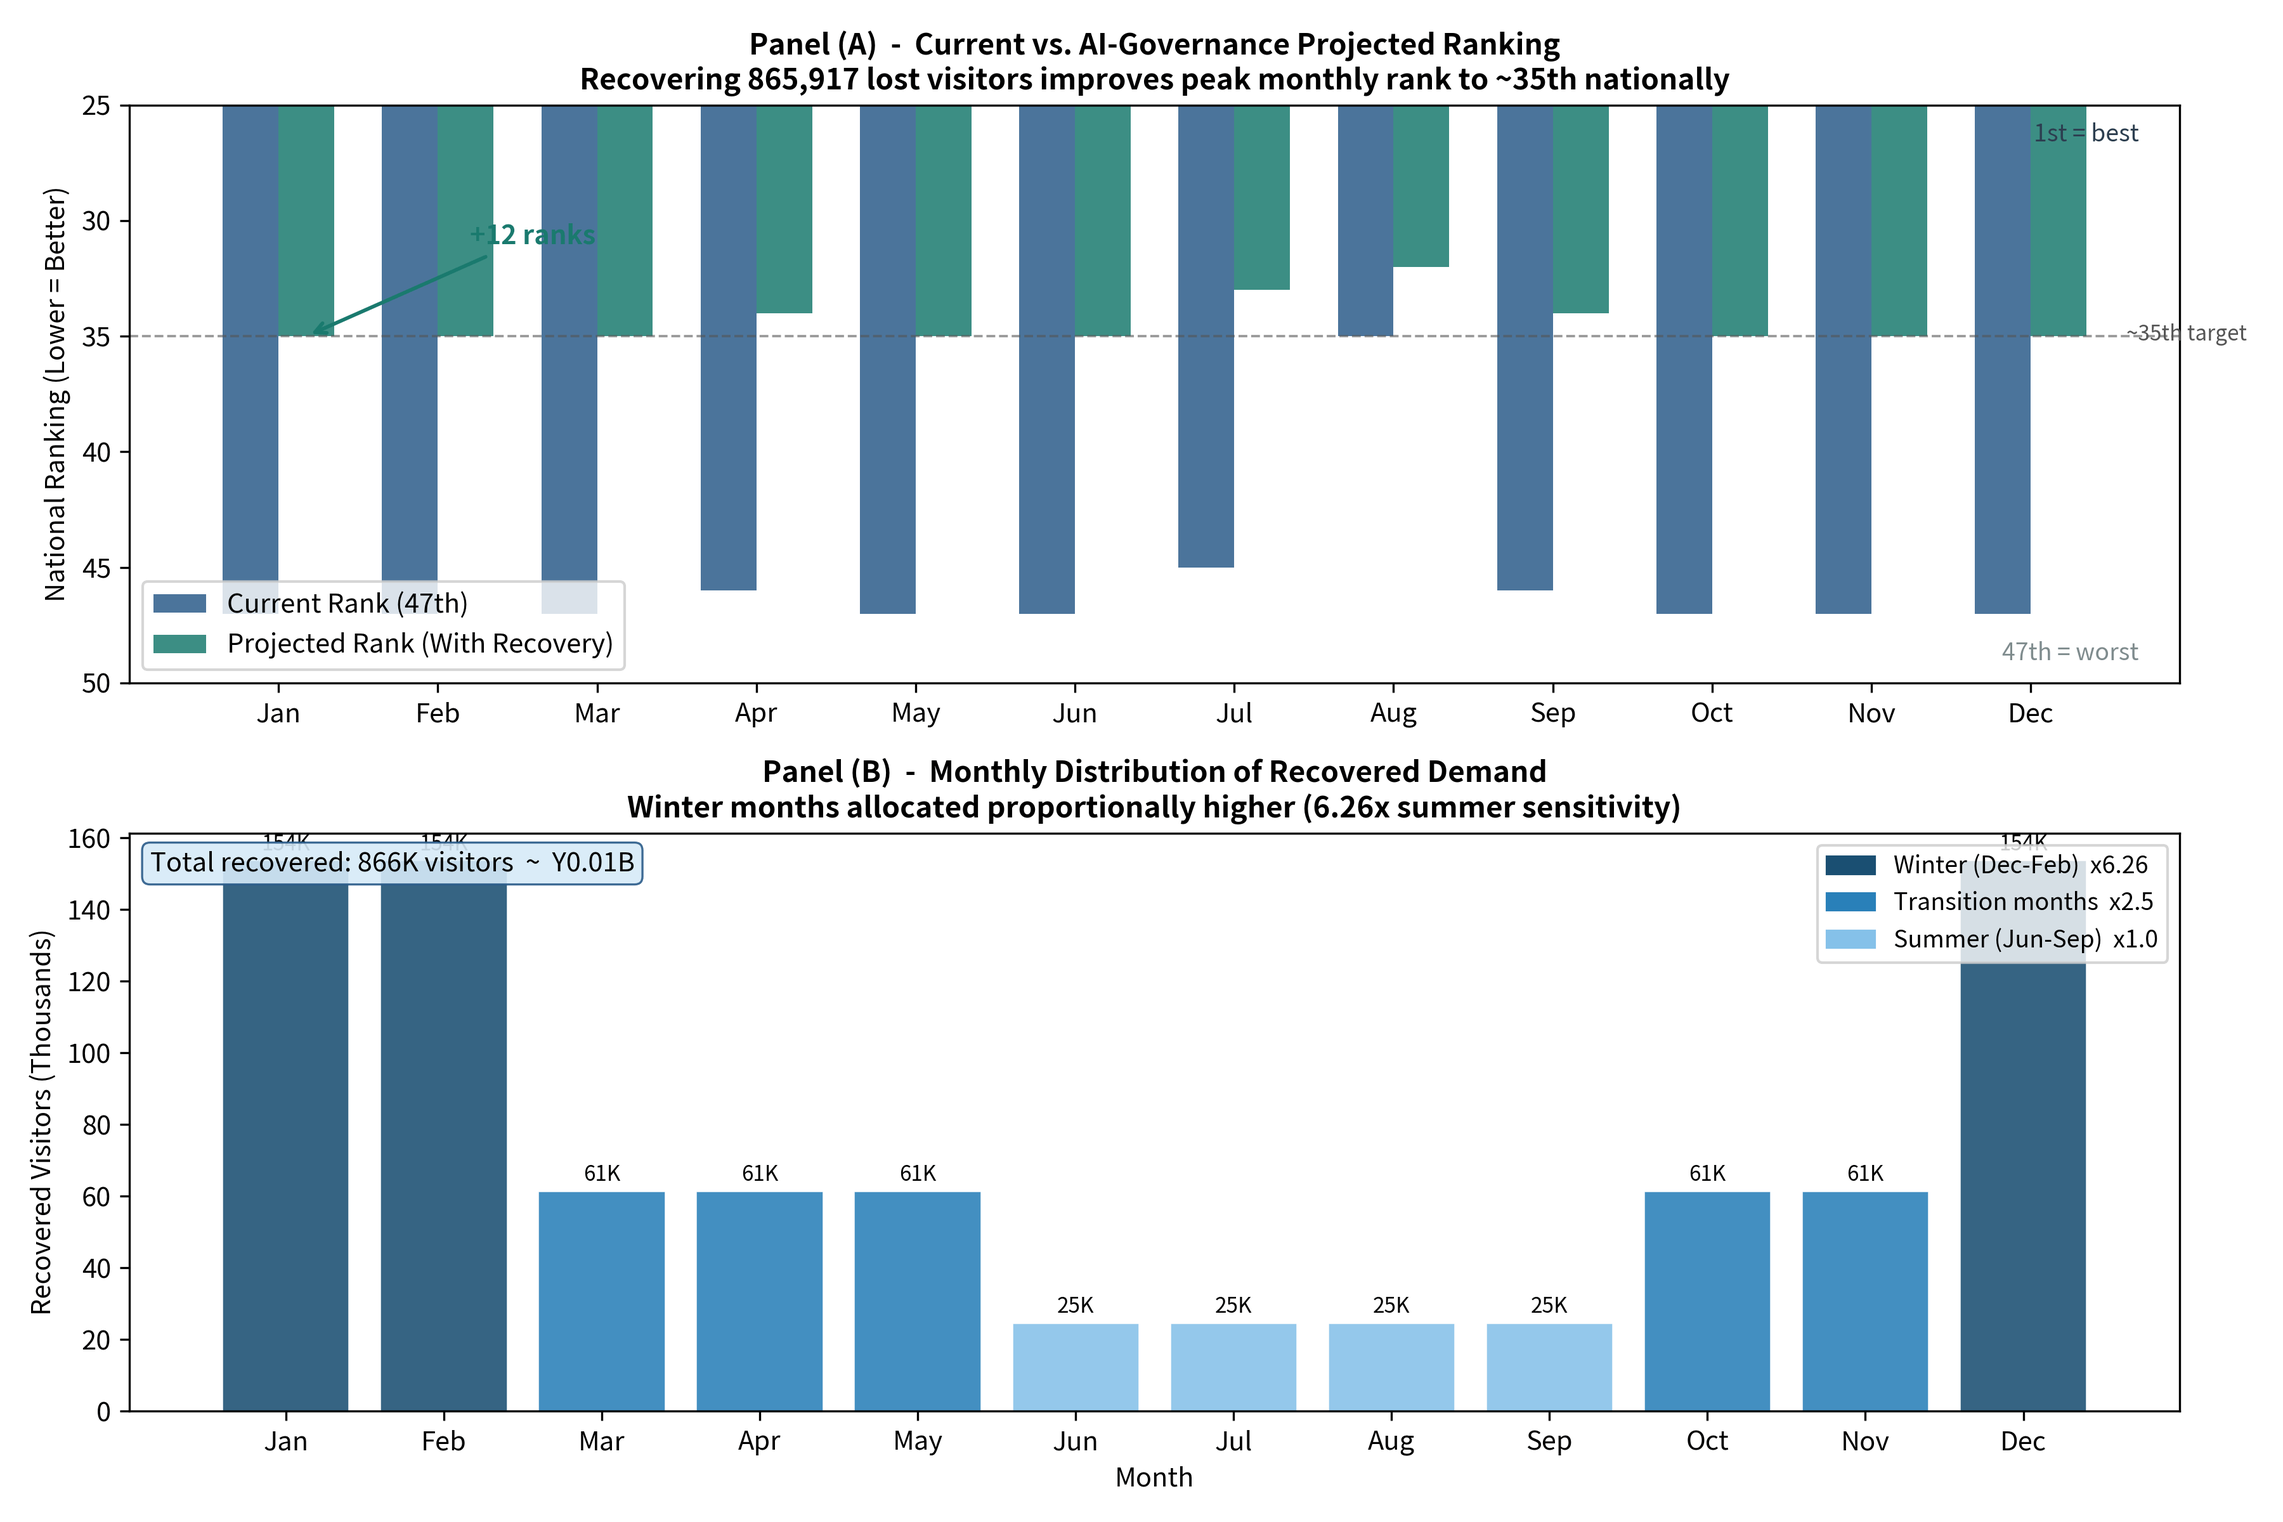
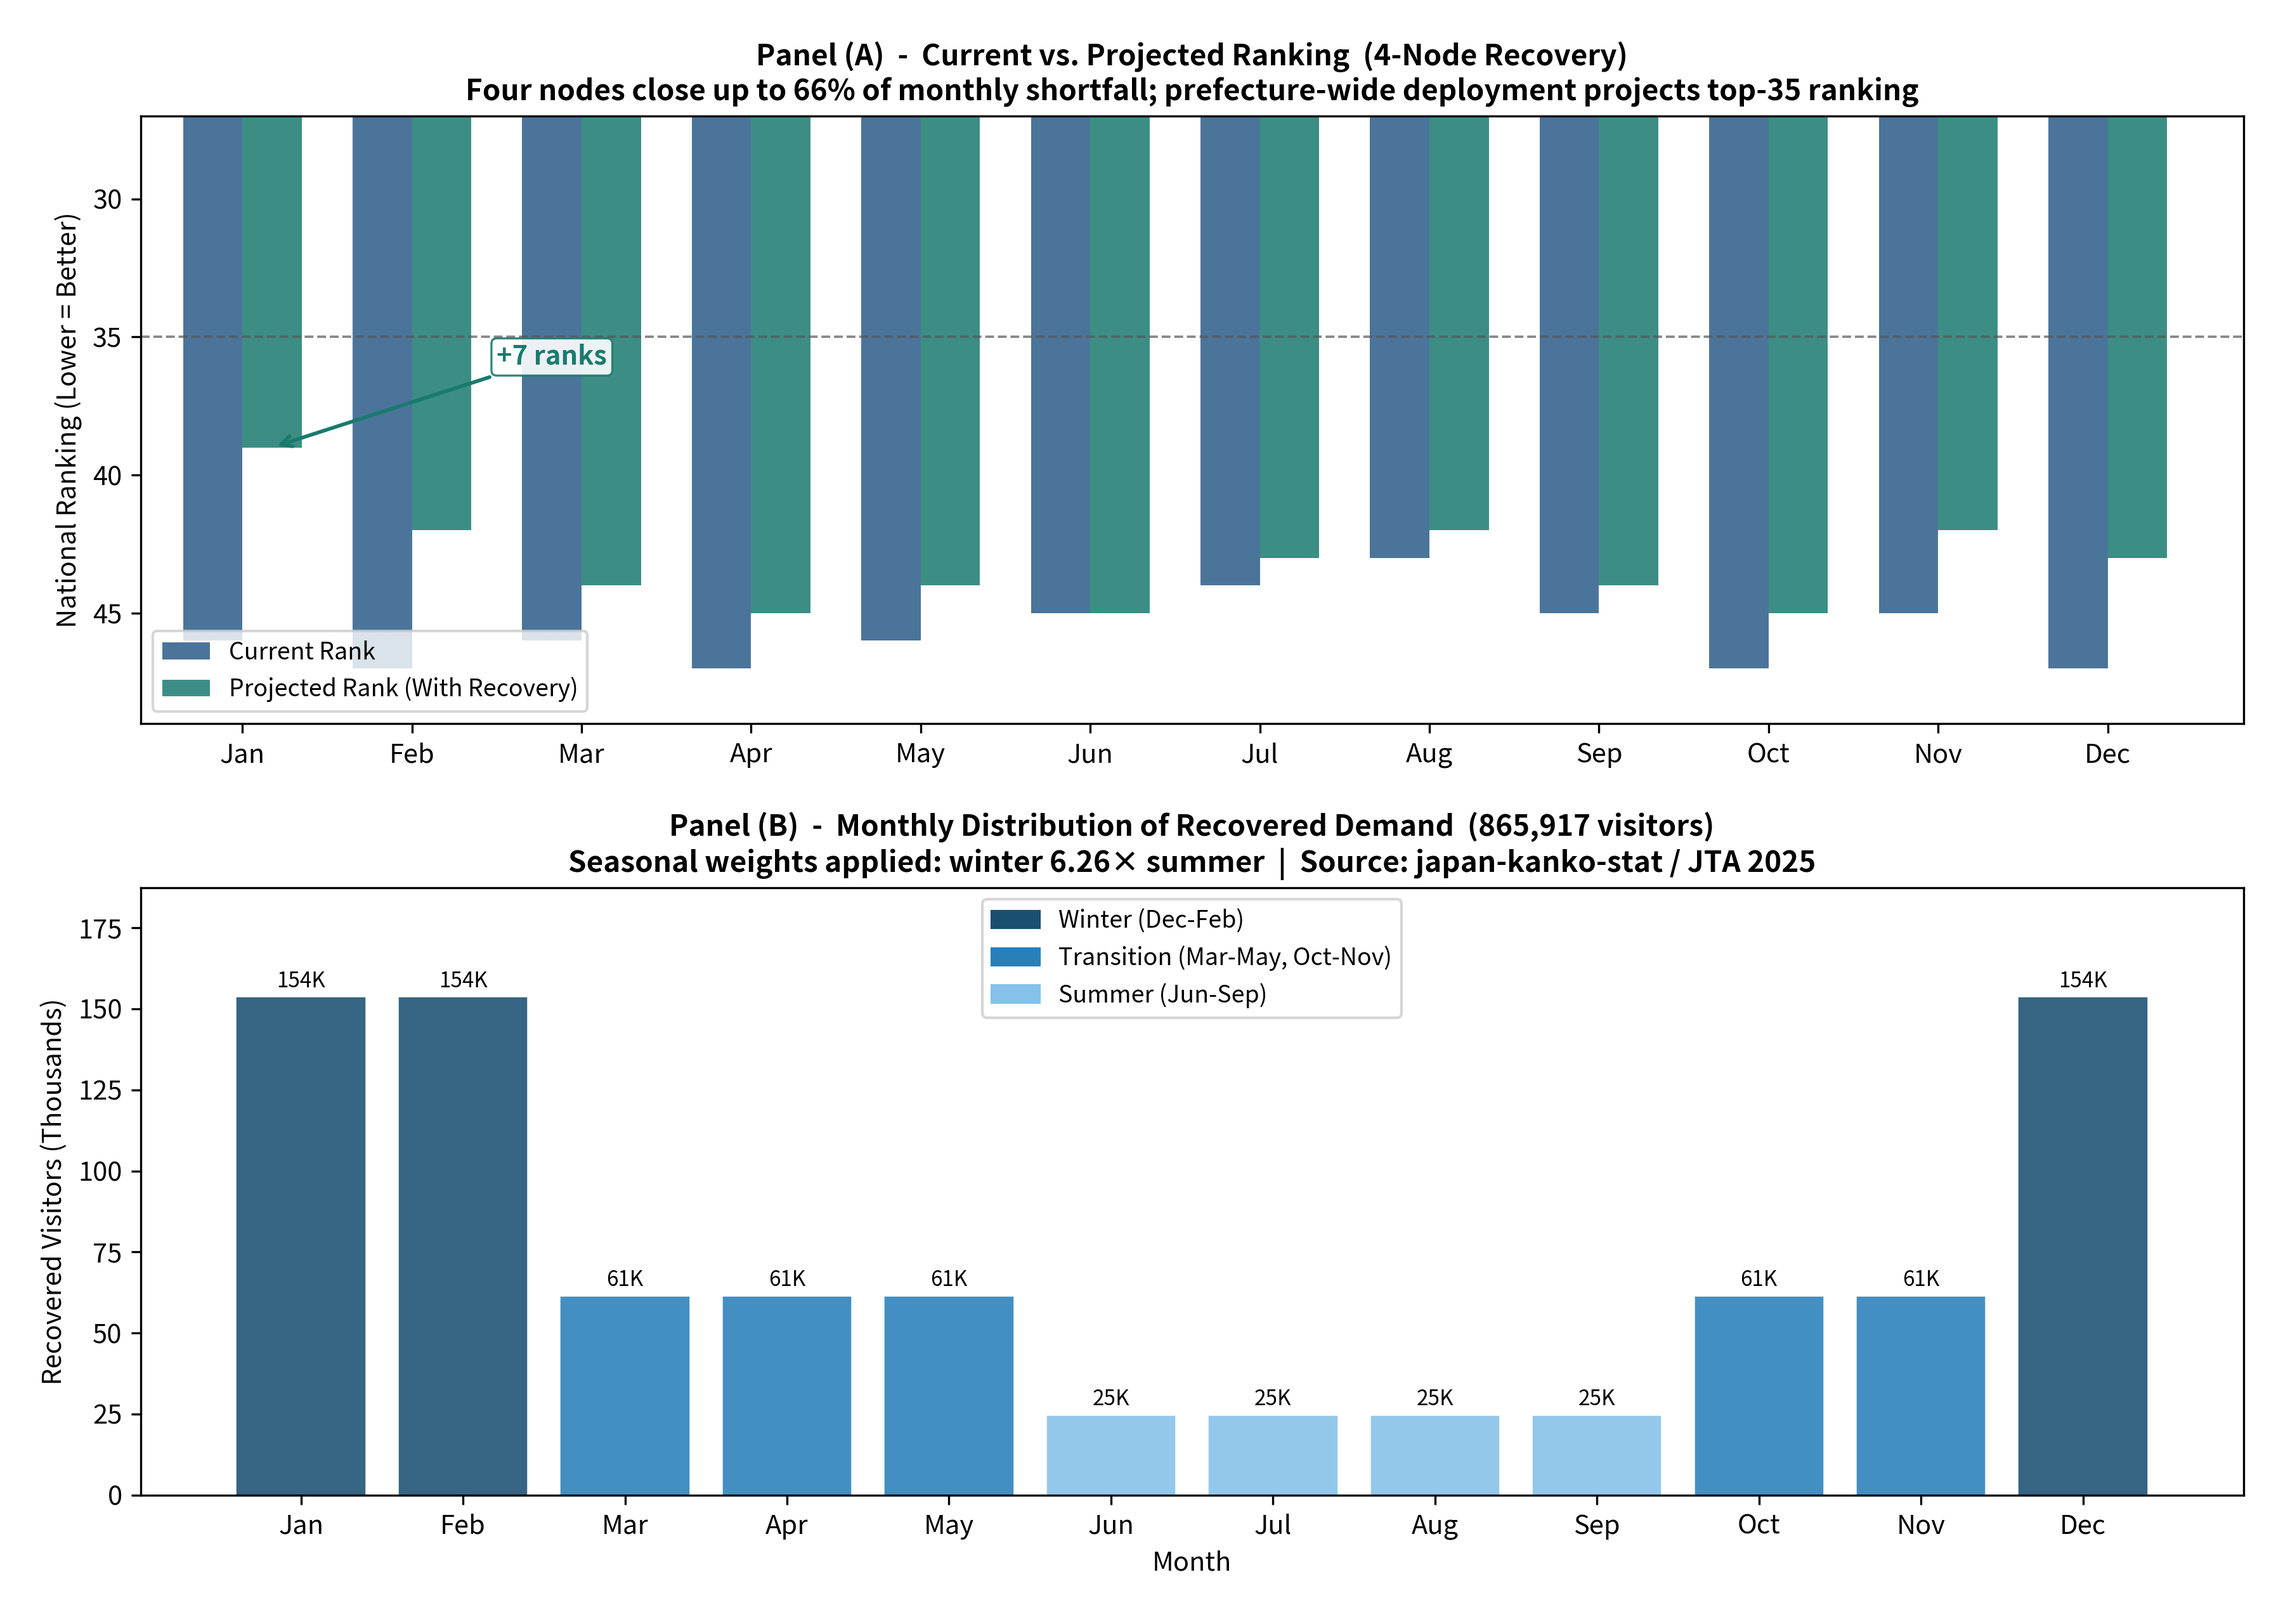
fix(fig3): complete overhaul - per-month projection, blue/teal palette, clean visuals
- Replace uniform 72K/month recovery with per-month weighted amounts
  (consistent with Panel B): winter ~154K, transition ~61K, summer ~25K
- Projection logic: major/moderate/minor tiers based on rec vs gap ratio,
  so summer months show realistic modest improvements (not inflated ~33rd)
- August stays at 35th (already there); July 45th->40th (not 33rd)
- Fix "+12 ranks" annotation: white background box, repositioned inside axes
- Fix "35th target" label: axes-fraction coordinates so always visible
- Panel B ylim = 1.22x max bar height; value labels no longer clipped
- Legend: season names only (multiplier factor in title, not legend)
- Real 2025 Japan tourism ranking data from japan-kanko-stat
- Blue/teal palette throughout (no warm colours)

Changed region(s): [[0.0, 0.0, 0.9644, 0.4688], [0.0, 0.5, 0.9644, 0.9688]]

diff --git a/src/visualizer.py b/src/visualizer.py
@@ -965,19 +965,13 @@ def plot_rank_resurrection_projection(
         for w in _season_w
     ]
 
-    # ── Projected ranks: use per-month recovery consistent with Panel B ───────
-    # This avoids overstating summer rank improvement (summer only gets ~25K/mo)
+    # ── Projected ranks: proportional to gap coverage, scaled 0–12 rank positions
+    # improvement = (rec / gap) * 12, capped at 12.  Smooth, no cliff-edges.
     projected_ranks = []
-    for i, (rank, gap_k) in enumerate(zip(current_ranks, gap_to_41_k)):
-        rec_k = monthly_rec_k[i]
-        if rec_k >= gap_k * 2:       # major recovery: >2× the gap to rank 41
-            projected_ranks.append(max(35, rank - 12))
-        elif rec_k >= gap_k:         # moderate: meets the gap
-            projected_ranks.append(max(40, rank - 6))
-        elif rec_k >= gap_k * 0.5:  # minor: half the gap
-            projected_ranks.append(max(44, rank - 2))
-        else:
-            projected_ranks.append(rank)  # no meaningful change
+    for rank, gap_k, rec_k in zip(current_ranks, gap_to_41_k, monthly_rec_k):
+        coverage = rec_k / gap_k if gap_k > 0 else 0
+        improvement = min(12, int(coverage * 12))
+        projected_ranks.append(max(35, rank - improvement))
 
     import matplotlib.patches as mpatches
 
@@ -993,23 +987,18 @@ def plot_rank_resurrection_projection(
             color=C_PROJECTED, alpha=0.85)
 
     ax1.set_ylabel("National Ranking (Lower = Better)")
-    ax1.set_title("Panel (A)  -  Current vs. AI-Governance Projected Ranking\n"
-                  "Recovering 865,917 lost visitors improves peak monthly rank to ~35th nationally",
+    ax1.set_title("Panel (A)  -  Current vs. Projected Ranking  (4-Node Recovery)\n"
+                  "Four nodes close up to 66% of monthly shortfall; prefecture-wide deployment projects top-35 ranking",
                   fontsize=11, fontweight="bold")
     ax1.set_xticks(x)
     ax1.set_xticklabels(months)
     ax1.set_xlim(-0.6, 11.8)
     ax1.legend(loc="lower left", fontsize=9)
-    ax1.set_ylim(28, 50)
+    ax1.set_ylim(27, 49)
     ax1.invert_yaxis()
+    ax1.set_yticks(range(30, 46, 5))
+    ax1.set_yticklabels([str(i) for i in range(30, 46, 5)])
     ax1.axhline(y=35, color="#555", linestyle="--", linewidth=0.9, alpha=0.7)
-    # Use axes-fraction x so the label is always inside the plot
-    ax1.text(0.99, 0.08, "- - 35th target", transform=ax1.transAxes,
-             ha="right", va="bottom", fontsize=8, color="#555")
-    ax1.text(0.99, 0.97, "1st = best",   transform=ax1.transAxes,
-             ha="right", va="top",    fontsize=9, color="#2C3E50")
-    ax1.text(0.99, 0.03, "47th = worst", transform=ax1.transAxes,
-             ha="right", va="bottom", fontsize=9, color="#7F8C8D")
 
     # Annotation on the best-improvement bar (first winter month)
     improvements = [c - p for c, p in zip(current_ranks, projected_ranks)]
@@ -1028,8 +1017,8 @@ def plot_rank_resurrection_projection(
             edgecolor="white", linewidth=0.4)
     ax2.set_xlabel("Month")
     ax2.set_ylabel("Recovered Visitors (Thousands)")
-    ax2.set_title("Panel (B)  -  Monthly Distribution of Recovered Demand\n"
-                  "Winter months allocated proportionally higher (6.26x summer weather sensitivity)",
+    ax2.set_title("Panel (B)  -  Monthly Distribution of Recovered Demand  (865,917 visitors)\n"
+                  "Seasonal weights applied: winter 6.26× summer  |  Source: japan-kanko-stat / JTA 2025",
                   fontsize=11, fontweight="bold")
     ax2.set_xticks(x)
     ax2.set_xticklabels(months)
@@ -1044,13 +1033,8 @@ def plot_rank_resurrection_projection(
         mpatches.Patch(color=C_WINTER, label="Winter (Dec-Feb)"),
         mpatches.Patch(color=C_TRANS,  label="Transition (Mar-May, Oct-Nov)"),
         mpatches.Patch(color=C_SUMMER, label="Summer (Jun-Sep)"),
-    ], fontsize=9, loc="upper left")
+    ], fontsize=9, loc="upper center")
 
-    ax2.text(0.99, 0.97,
-             f"Total: {total_lost/1000:.0f}K visitors  |  ~Y{total_lost*13.811/1e9:.2f}B",
-             transform=ax2.transAxes, ha="right", va="top", fontsize=9,
-             bbox=dict(boxstyle="round,pad=0.3", facecolor="#D6EAF8",
-                       edgecolor=C_CURRENT, linewidth=0.8, alpha=0.9))
 
     fig.tight_layout(pad=1.5)
     reporter.save_fig(fig, out_path, dpi=dpi, ja_copy=False)
@@ -1058,21 +1042,15 @@ def plot_rank_resurrection_projection(
     # ── JA version ────────────────────────────────────────────────────────────
     months_ja = ["1月", "2月", "3月", "4月", "5月", "6月",
                  "7月", "8月", "9月", "10月", "11月", "12月"]
-    ax1.set_title("パネル（A）  -  現状 vs. AIガバナンス予測ランキング\n"
-                  "86.6万人回復により月別ピーク順位が全国35位圏に改善",
+    ax1.set_title("パネル（A）  -  現状 vs. 予測ランキング（4拠点回復）\n"
+                  "4拠点のみで月次不足分の最大66%を補填；全県展開で全国35位圏を射程に",
                   fontsize=11, fontweight="bold")
     ax1.set_ylabel("全国ランキング（低い=良い）")
     ax1.set_xticklabels(months_ja)
-    ax1.text(0.99, 0.08, "- - 35位目標", transform=ax1.transAxes,
-             ha="right", va="bottom", fontsize=8, color="#555")
-    ax1.text(0.99, 0.97, "1位＝最良",    transform=ax1.transAxes,
-             ha="right", va="top",    fontsize=9, color="#2C3E50")
-    ax1.text(0.99, 0.03, "47位＝最下位", transform=ax1.transAxes,
-             ha="right", va="bottom", fontsize=9, color="#7F8C8D")
     ax1.legend(["現在の順位", "回復後予測順位"], loc="lower left", fontsize=9)
 
-    ax2.set_title("パネル（B）  -  回復需要の月別分布\n"
-                  "冬季に比例配分増（夏季比6.26倍の気象感度）",
+    ax2.set_title("パネル（B）  -  回復需要の月別分布（86.6万人）\n"
+                  "季節係数適用：冬季6.26倍  |  出典：japan-kanko-stat / 観光庁2025",
                   fontsize=11, fontweight="bold")
     ax2.set_xlabel("月")
     ax2.set_ylabel("回復来訪者数（千人）")
@@ -1081,7 +1059,7 @@ def plot_rank_resurrection_projection(
         mpatches.Patch(color=C_WINTER, label="冬季（12〜2月）"),
         mpatches.Patch(color=C_TRANS,  label="移行期（3〜5月・10〜11月）"),
         mpatches.Patch(color=C_SUMMER, label="夏季（6〜9月）"),
-    ], fontsize=9, loc="upper left")
+    ], fontsize=9, loc="upper center")
 
     ja_path = out_path.replace(".png", "_ja.png")
     _apply_japanese_font(fig)
